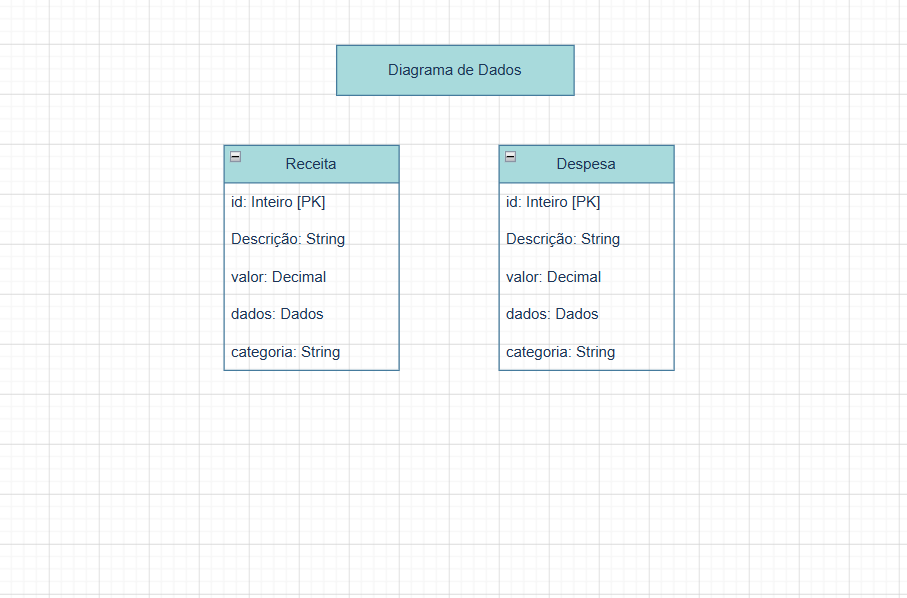
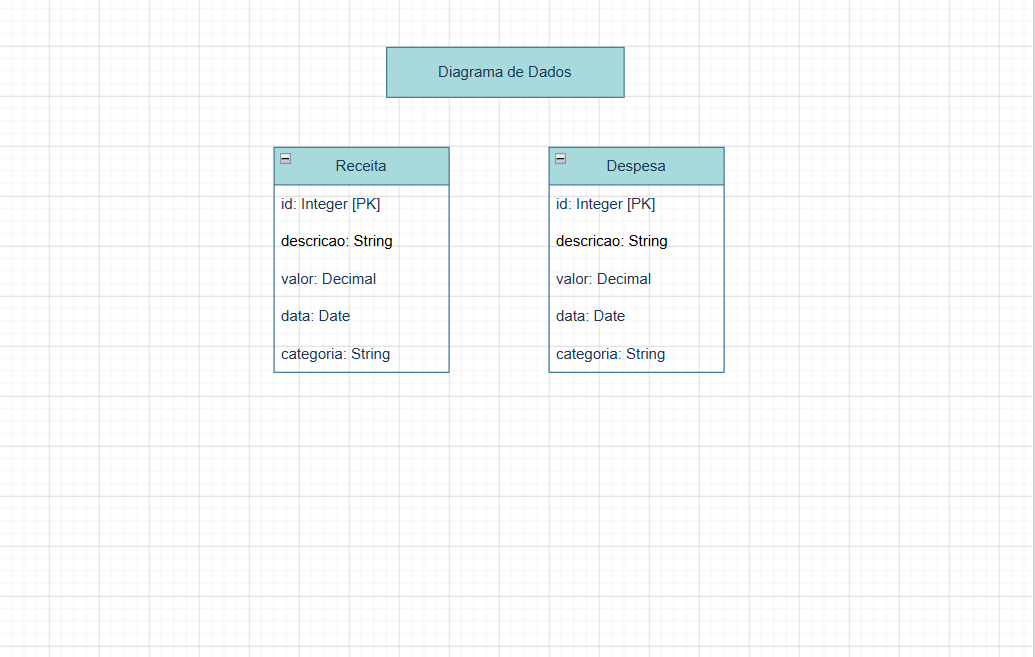
atualização de pasta

diff --git a/manage.py b/manage.py
@@ -1,0 +1,21 @@
+#!/usr/bin/env python
+"""Script de utilidade para tarefas administrativas do Django."""
+import os
+import sys
+
+def main():
+    """Executa as tarefas administrativas do projeto."""
+    # Aponta explicitamente para as configurações da sua pasta setup
+    os.environ.setdefault('DJANGO_SETTINGS_MODULE', 'setup.settings')
+    try:
+        from django.core.management import execute_from_command_line
+    except ImportError as exc:
+        raise ImportError(
+            "Não foi possível importar o Django. Tem a certeza de que está instalado e "
+            "disponível na variável de ambiente PYTHONPATH? Esqueceu-se de "
+            "ativar o ambiente virtual (venv)?"
+        ) from exc
+    execute_from_command_line(sys.argv)
+
+if __name__ == '__main__':
+    main()